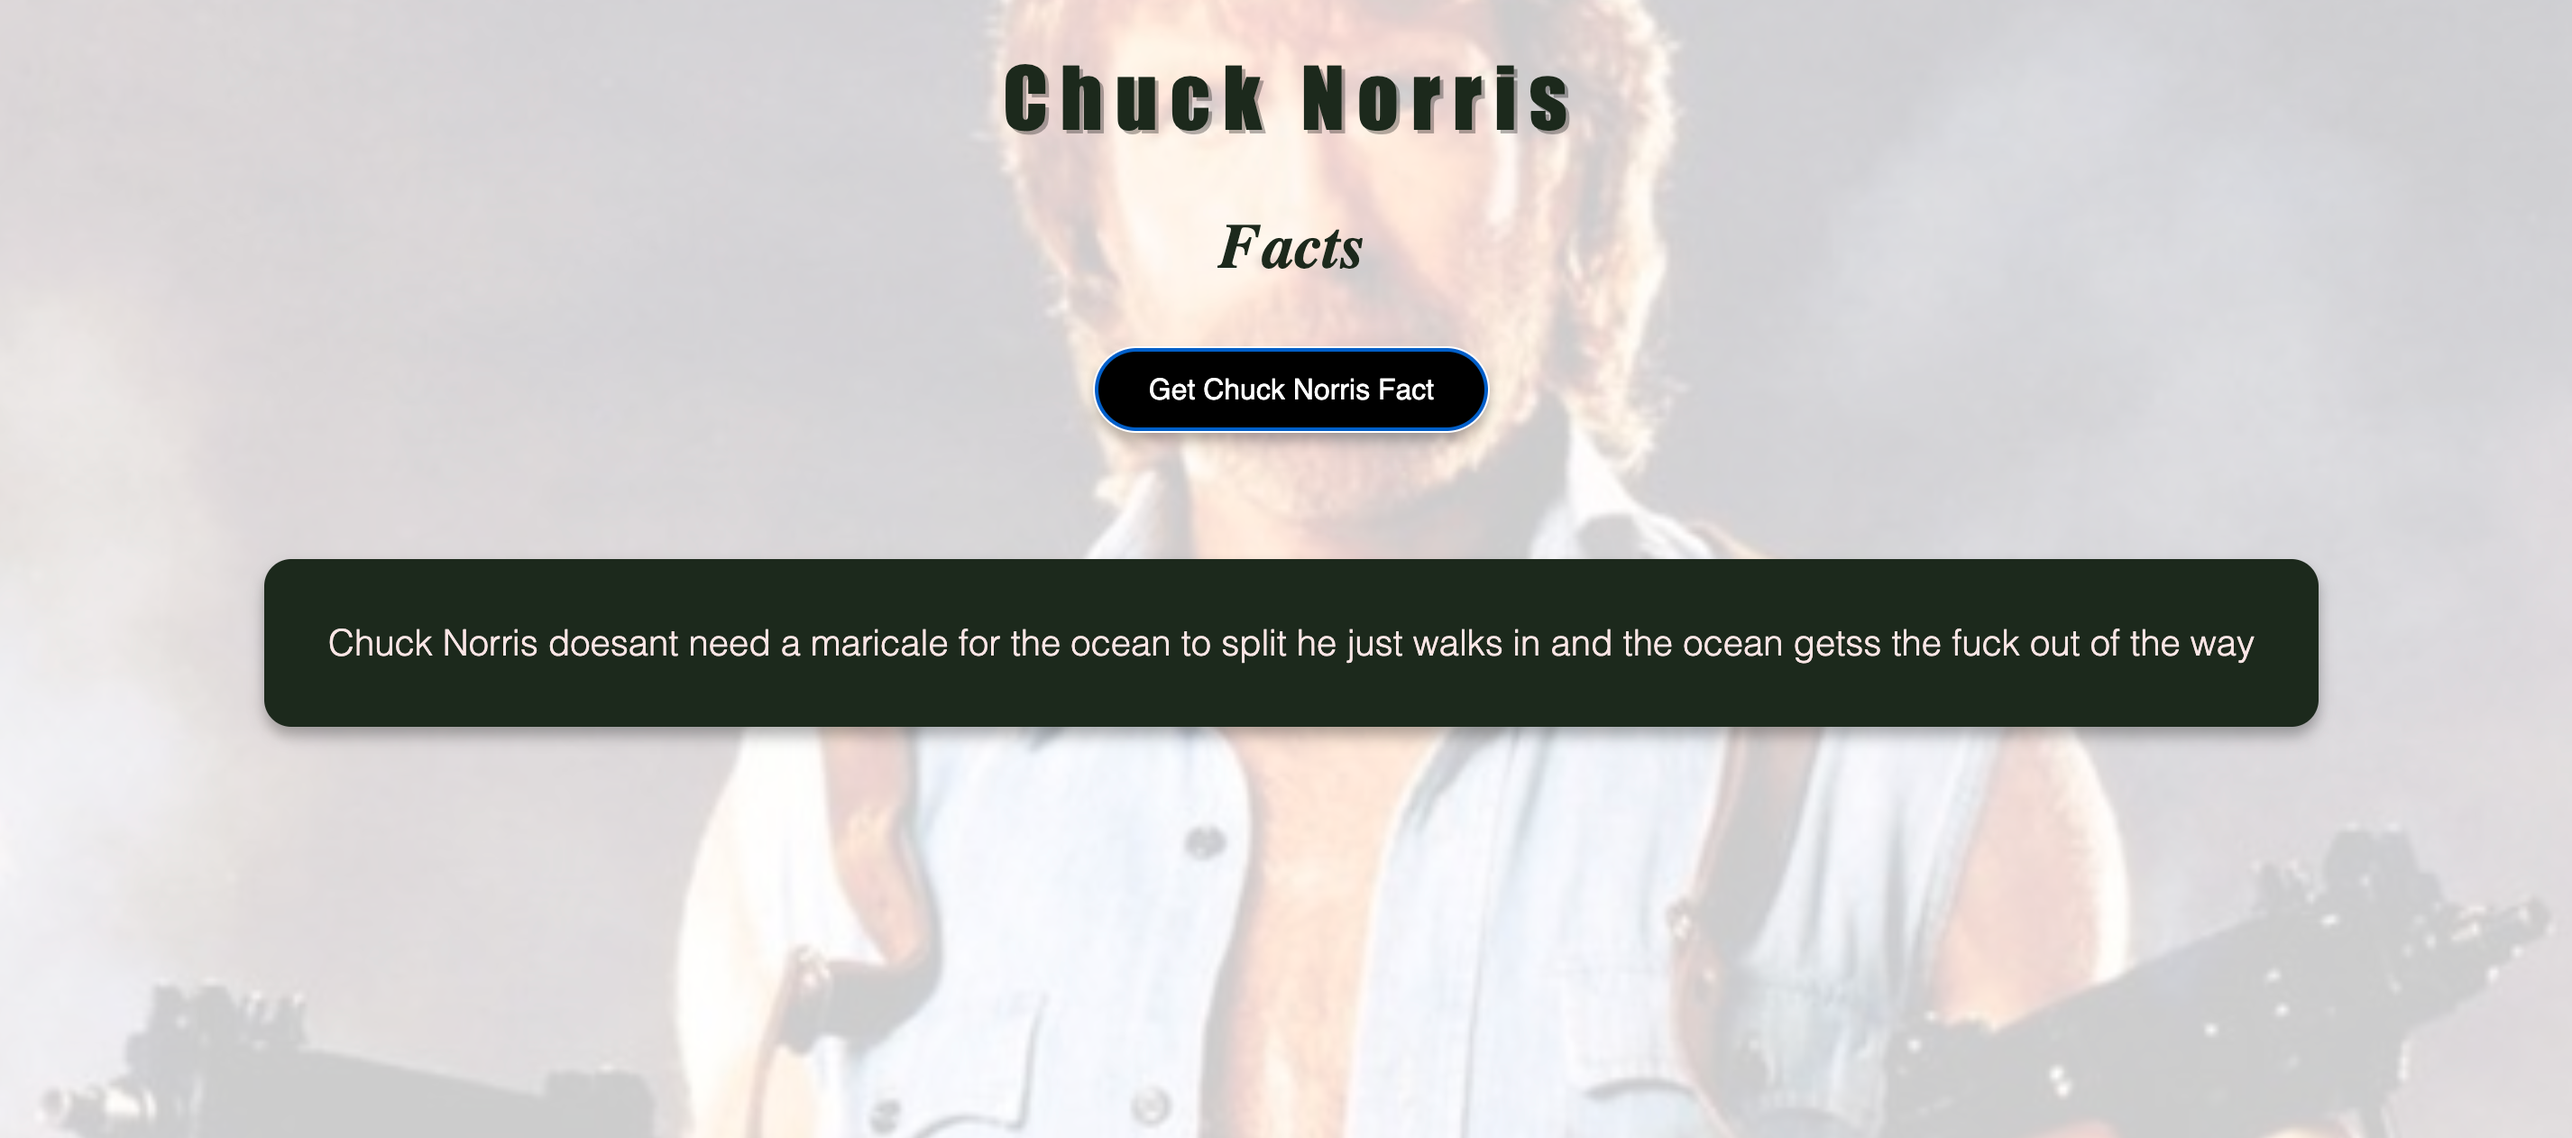
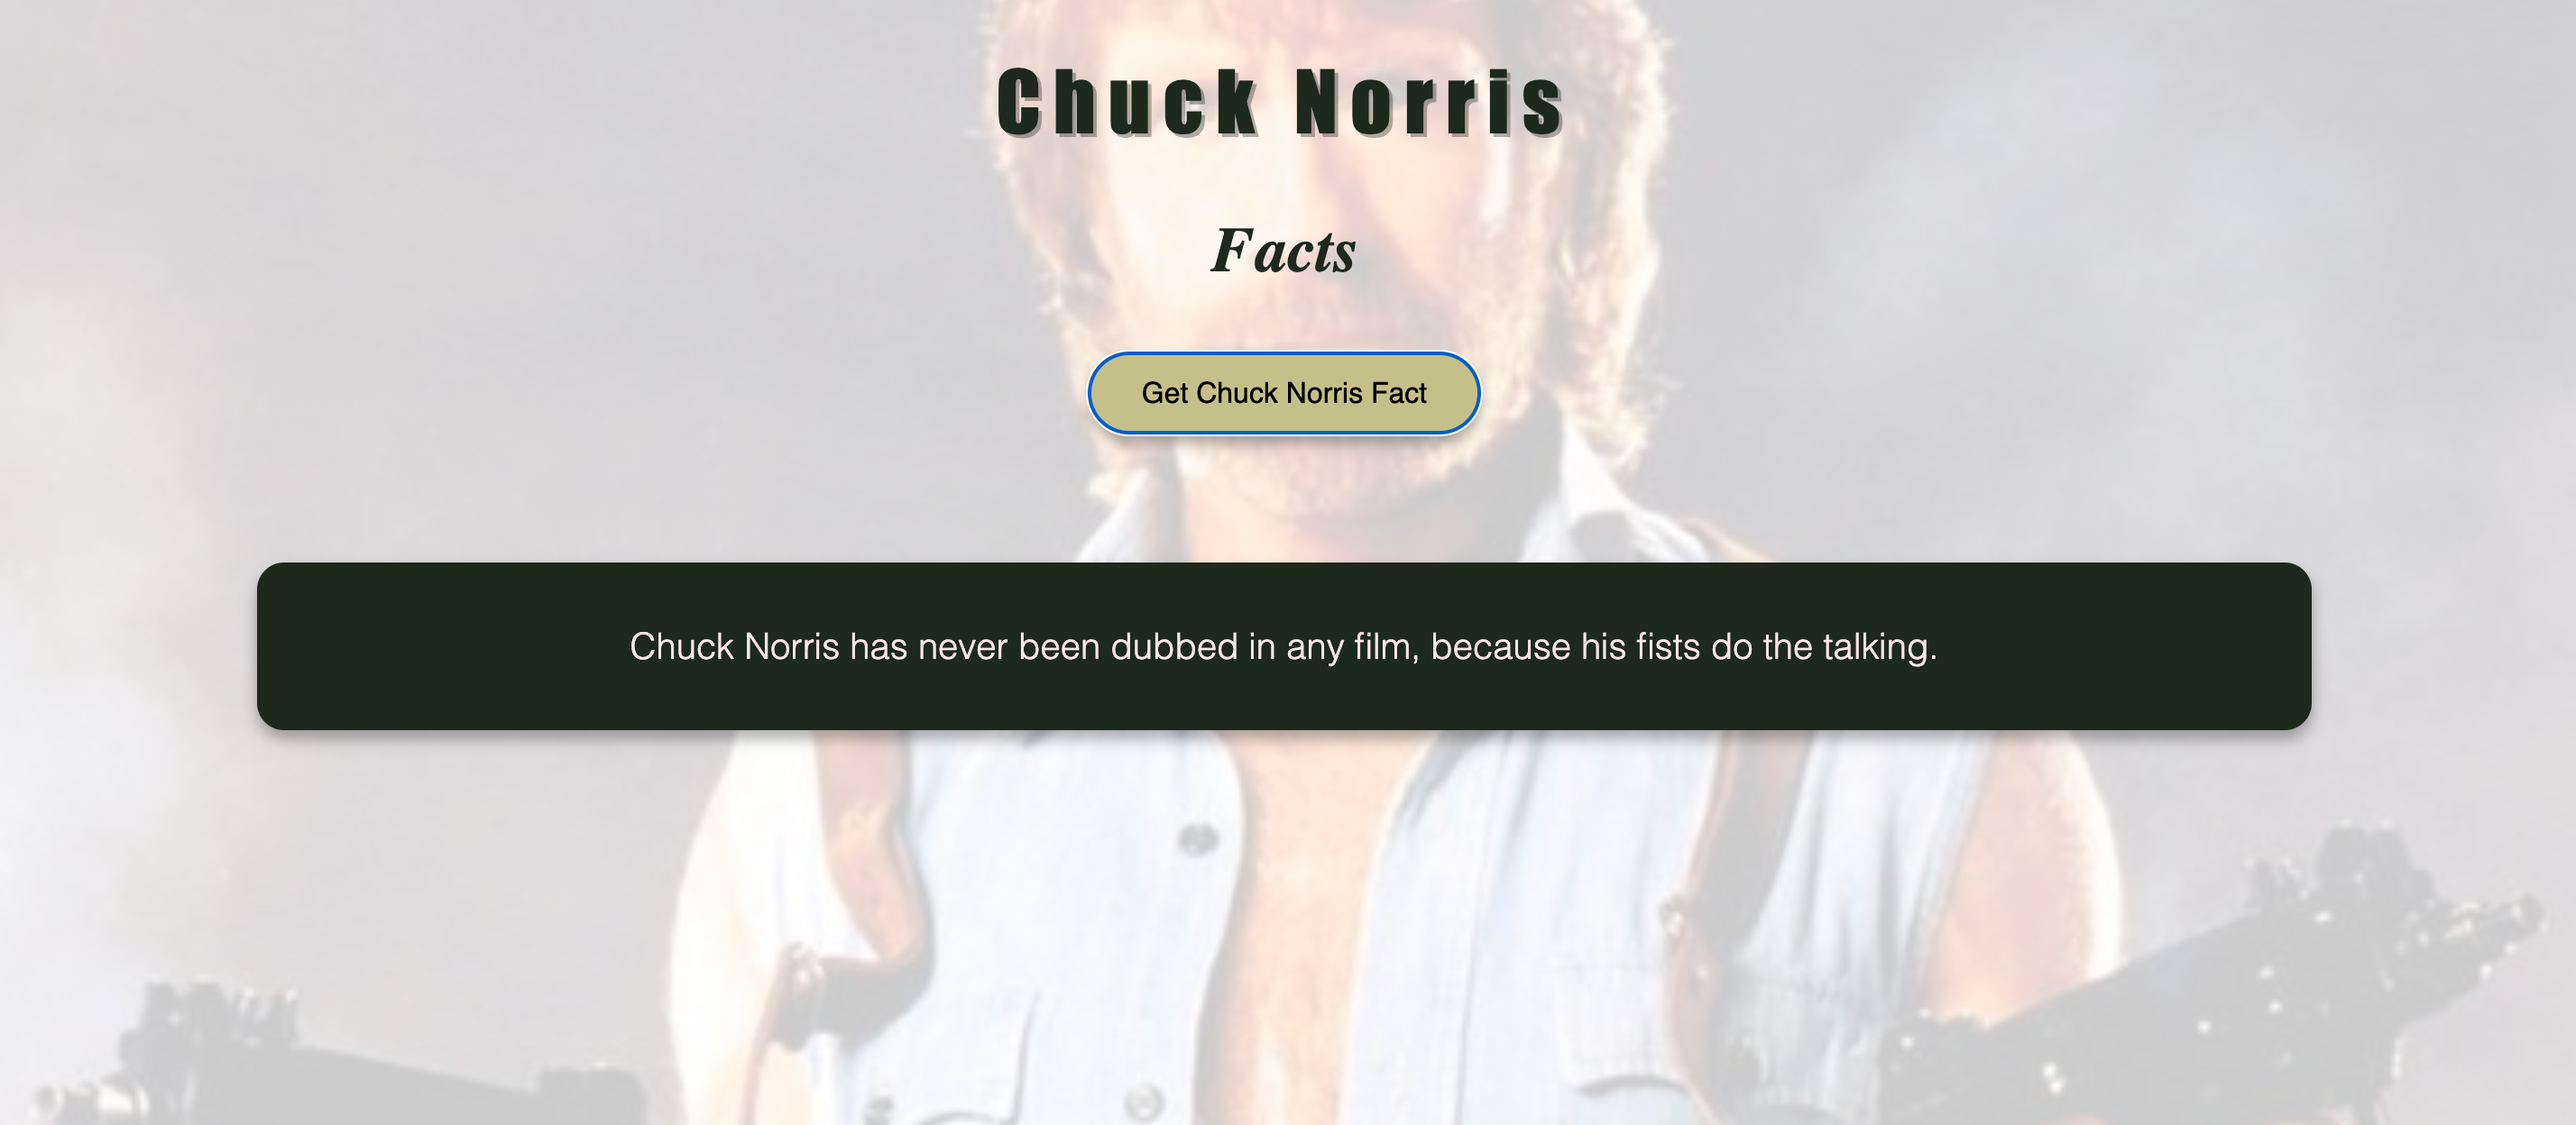
Updated ReadMe with credits and screenshot

diff --git a/README.md b/README.md
@@ -38,6 +38,10 @@ The above copyright notice and this permission notice shall be included in all c
 
 THE SOFTWARE IS PROVIDED "AS IS", WITHOUT WARRANTY OF ANY KIND, EXPRESS OR IMPLIED, INCLUDING BUT NOT LIMITED TO THE WARRANTIES OF MERCHANTABILITY, FITNESS FOR A PARTICULAR PURPOSE AND NONINFRINGEMENT. IN NO EVENT SHALL THE AUTHORS OR COPYRIGHT HOLDERS BE LIABLE FOR ANY CLAIM, DAMAGES OR OTHER LIABILITY, WHETHER IN AN ACTION OF CONTRACT, TORT OR OTHERWISE, ARISING FROM, OUT OF OR IN CONNECTION WITH THE SOFTWARE OR THE USE OR OTHER DEALINGS IN THE SOFTWARE.
 
+<a name="screenshots"></a>
+
+## Screenshot
+ ![Screenshot of Food Page ](./chuck-norris/src/images/screenshot.png)
 
 <a name="links"></a>
 
@@ -50,4 +54,7 @@ THE SOFTWARE IS PROVIDED "AS IS", WITHOUT WARRANTY OF ANY KIND, EXPRESS OR IMPLI
 <a name="credits"></a>
 
 ## Resources / Credits
-This project was developed with assistance in the form of starter code to design the front end, and guidance through my tutor Robert Parsons.
+I used the Chuck Norris Facts API and also some CSS Button Style from Prio-Soft.
+
+* Chuck Norris Facts API: https://api.chucknorris.io/
+* Prio-Soft: https://codepen.io/priosoft
